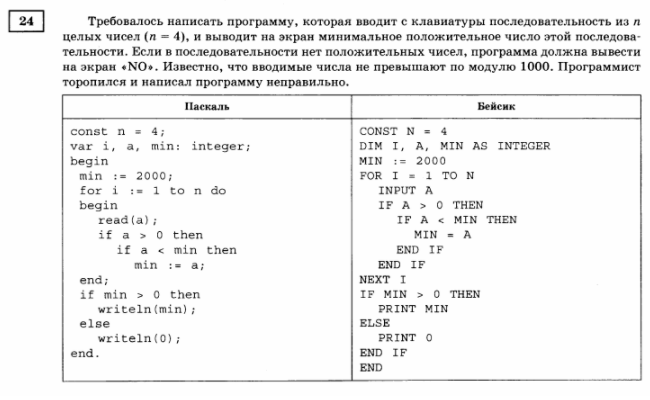
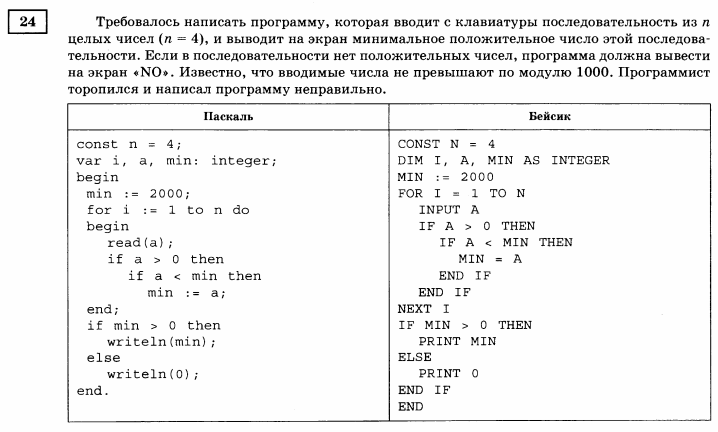
update 2017_Variant1.html

Changed region(s): [[0.0, 0.0, 1.0, 0.99]]

diff --git a/2017_Variant1.html b/2017_Variant1.html
@@ -14423,9 +14423,9 @@ k = 59 ; i-1 = 7
 </div>
 <div class="inner_cell">
 <div class="text_cell_render border-box-sizing rendered_html">
-<div style="width: 1000px; height: 1500px; overflow:auto;">
-    <img src="it_images/2017_01_24_1.png" width="1000" height="700"/>
-    <img src="it_images/2017_01_24_2.png" width="1000" height="800"/>
+<div style="width: 800px; height: 1200px; overflow:auto;">
+    <img src="it_images/2017_01_24_1.png" width="800" height="500"/>
+    <img src="it_images/2017_01_24_2.png" width="800" height="700"/>
 </div><p>Требовалось написать программу, которая вводит с клавиатуры последовательность из n целых чисел (n = 4), и выводит на экран минимальное положительное число этой последовательности. Если в последовательности нет положительных чисел, программа должна вывести на экран «NO». Известно, что вводимые числа не превышают по модулю 1000. Программист торопился и написал программу неправильно.</p>
 <p>Выполните следующие действия:</p>
 <ol>
@@ -14661,9 +14661,9 @@ NO
 </div>
 <div class="inner_cell">
 <div class="text_cell_render border-box-sizing rendered_html">
-<div style="width: 1000px; height: 1300px; overflow:auto;">
-    <img src="it_images/2017_01_25_1.png" width="1000" height="500"/>
-    <img src="it_images/2017_01_25_2.png" width="1000" height="700"/>
+<div style="width: 800px; height: 1050px; overflow:auto;">
+    <img src="it_images/2017_01_25_1.png" width="800" height="400"/>
+    <img src="it_images/2017_01_25_2.png" width="800" height="600"/>
 </div><p>Дан целочисленный массив из 40 элементов. Элементы массива могут принимать значения от -10000 до 10000. Опишите на русском языке или на одном из языков программирования алгоритм, который проверяет, каких значений элементов в массиве больше — положительных (в этом случае вывести «+»), отрицательных (в этом случае вывести «-»), или их поровну (в этом случае вывести «=»).</p>
 <p>Исходные данные объявлены так, как показано ниже. Запрещается использовать переменные, не описанные ниже, но разрешается не использовать часть из них.</p>
 <ul>
@@ -14876,8 +14876,8 @@ NO
 </div>
 <div class="inner_cell">
 <div class="text_cell_render border-box-sizing rendered_html">
-<div style="width: 1000px; height: 650px; overflow:auto;">
-    <img src="it_images/2017_01_26.png" width="1000" height="650"/>
+<div style="width: 800px; height: 500px; overflow:auto;">
+    <img src="it_images/2017_01_26.png" width="800" height="500"/>
 </div><p>Два игрока, Петя и Ваня, играют в следующую игру. Перед игроками лежит две кучи камней. Игроки ходят по очереди, первый ход делает Петя. Назовём позицией игры указание количества камней в обеих кучах. Например, позиция (15,20) означает, что в первой куче 15 камней, а во второй — 20. За один ход игрок может добавить в одну из куч один камень или увеличить количество камней в одной из куч в два раза. Например, имея количество камней в кучах (15,20), за один ход можно получить положение (16,20), (30,20), (15,21) и (15,40). У каждого игрока, чтобы делать ходы, есть неограниченное количество камней.</p>
 <p>Игра завершается в тот момент, когда количество камней в обеих кучах (сумма) становится не менее 65. Победителем считается игрок, сделавший последний ход, то есть первым получивший положение, в котором сумма камней в кучах будет 65 или больше камней.</p>
 <p>Говорят, что игрок имеет выигрышную стратегию, если он может выиграть при любых ходах противника. Описать стратегию игрока — значит описать, какой ход он должен сделать в любой ситуации, которая ему может встретиться при различной игре противника. Например, при начальных позициях (4,31), (5,30), (7,29) выигрышная стратегия есть у Пети. Чтобы выиграть, ему достаточно удвоить количество камней во второй куче.</p>
@@ -15087,8 +15087,8 @@ Hence, Vanya has a winning strategy. He wins at any of two initial positions, no
 </div>
 <div class="inner_cell">
 <div class="text_cell_render border-box-sizing rendered_html">
-<p><div style="width: 1000px; height: 500px; overflow:auto;">
-    <img src="it_images/2017_01_27.png" width="1000" height="500"/>
+<p><div style="width: 800px; height: 400px; overflow:auto;">
+    <img src="it_images/2017_01_27.png" width="800" height="400"/>
 </div>
 На вход программе подаётся: в первой строке — число N (1 &lt; N &lt; 109).</p>
 <p>В каждой из последующих N строк — по одному элементу последовательности — целые числа, не превышающее по модулю 10 000.</p>
